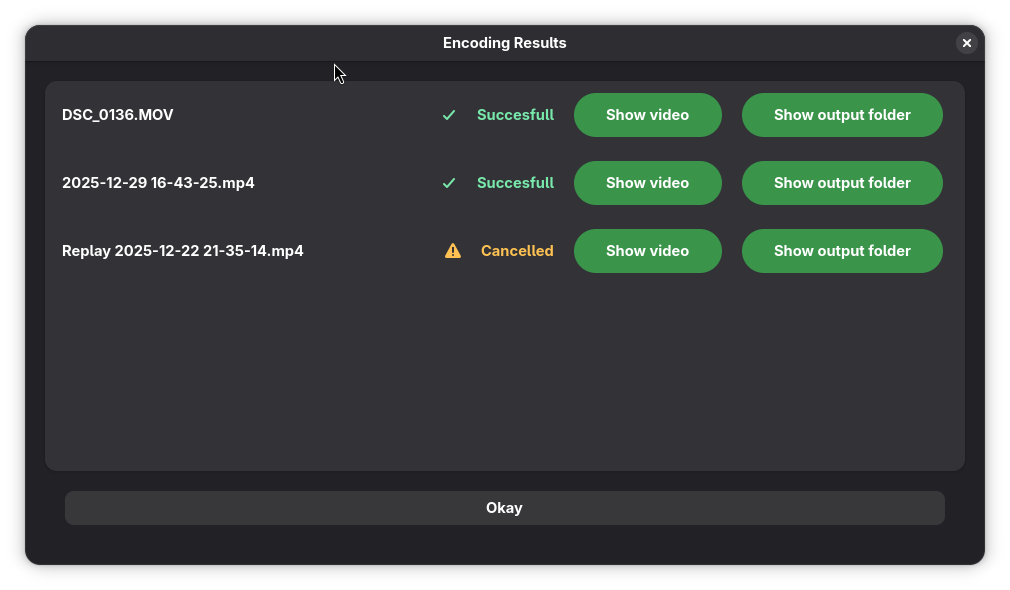
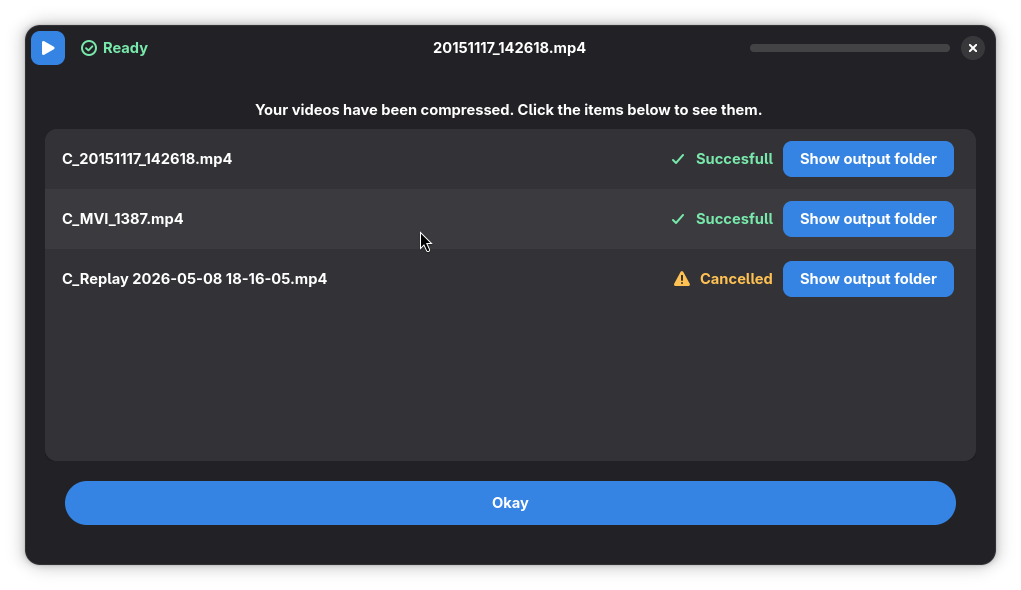
Update screenshots and some info

diff --git a/index.html b/index.html
@@ -28,10 +28,10 @@
             <div class="intro">
                 <div>
                     <h1>
-                        VidCom - Archive and Compress Videos
+                        VidCom
                     </h1>
                     <p>
-                        A simple utility for video archiving and compression. 
+                        Archive your videos easily 
                     </p>
                     <div class="button-group large">
                         <a href="./pages/faq.html" class="button">Q&A</a>
@@ -52,7 +52,7 @@
                             What is VidCom?
                         </h3>
                         <p>
-                            VidCom (short for Video Compression) is a simple utility for compressing video. It offers both GUI and CLI interface and utilises <code>ffmpeg</code> for the video encoding.
+                            VidCom (short for Video Compression) is a simple utility for archiving videos. It offers both GUI and CLI interface and utilises ffmpeg for the video encoding.
                         </p>
                 </div>
                 <div class="card">
